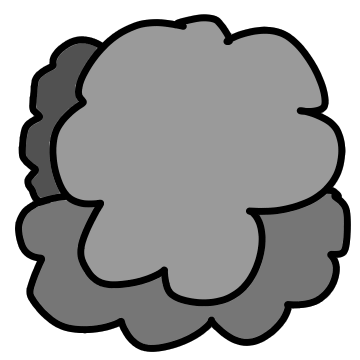
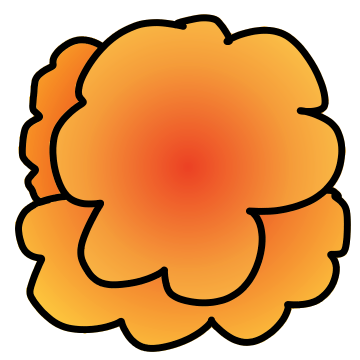
Made BombPin Explosion More Readable

diff --git a/Final Game/UI.cs b/Final Game/UI.cs
@@ -792,7 +792,7 @@ namespace Final_Game
 				null, null, emptyButton);
             MenuButtons[1].PressTint = Color.Blue * 0.3f;
             MenuButtons[1].SetText("Tutorial", TitleCaseCarter);
-            MenuButtons[1].TextColor = Color.Black;
+            MenuButtons[1].TextColor = Color.White;
 
 			// Settings
 			wordDims = TitleCaseCarter.MeasureString("Settings");

diff --git a/Final Game/Entity/BombPin.cs b/Final Game/Entity/BombPin.cs
@@ -363,7 +363,9 @@ namespace Final_Game.Entity
 				Game1.Player.CurCore.StopCurving();
 				Game1.Player.CurCore.Ricochet(explosionForce);
 
-				_attackLandedOnce = true;
+                _explosionCloud.AlphaMultiplier = 0.5f;
+
+                _attackLandedOnce = true;
 			}
 
 			return;

diff --git a/Final Game/Entity/Enemy.cs b/Final Game/Entity/Enemy.cs
@@ -156,7 +156,12 @@ namespace Final_Game.Entity
 					// Enemy is temporarily knocked out
 					Managers.SoundManager.PlayKnockSound();
 					_koTimer = _koDuration;
+
+					// Enemy doesn't properly die
 					CurHealth = 1;
+
+					// Stop moving
+					Velocity = Vector2.Zero;
 				}
 		}
 
